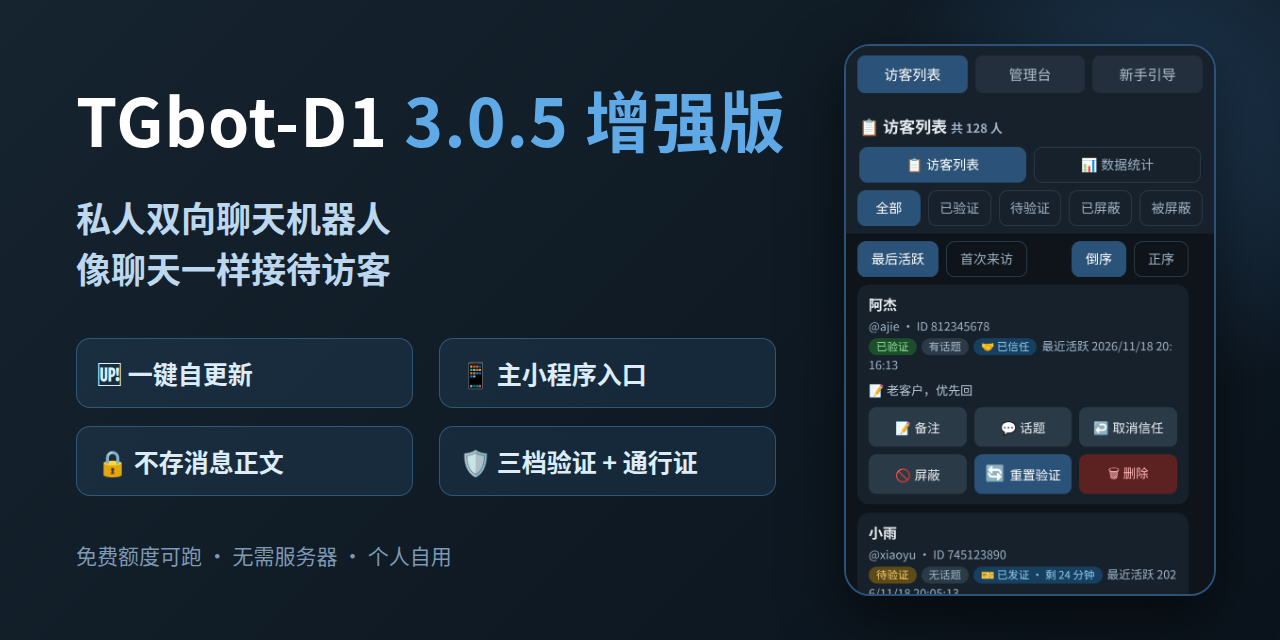
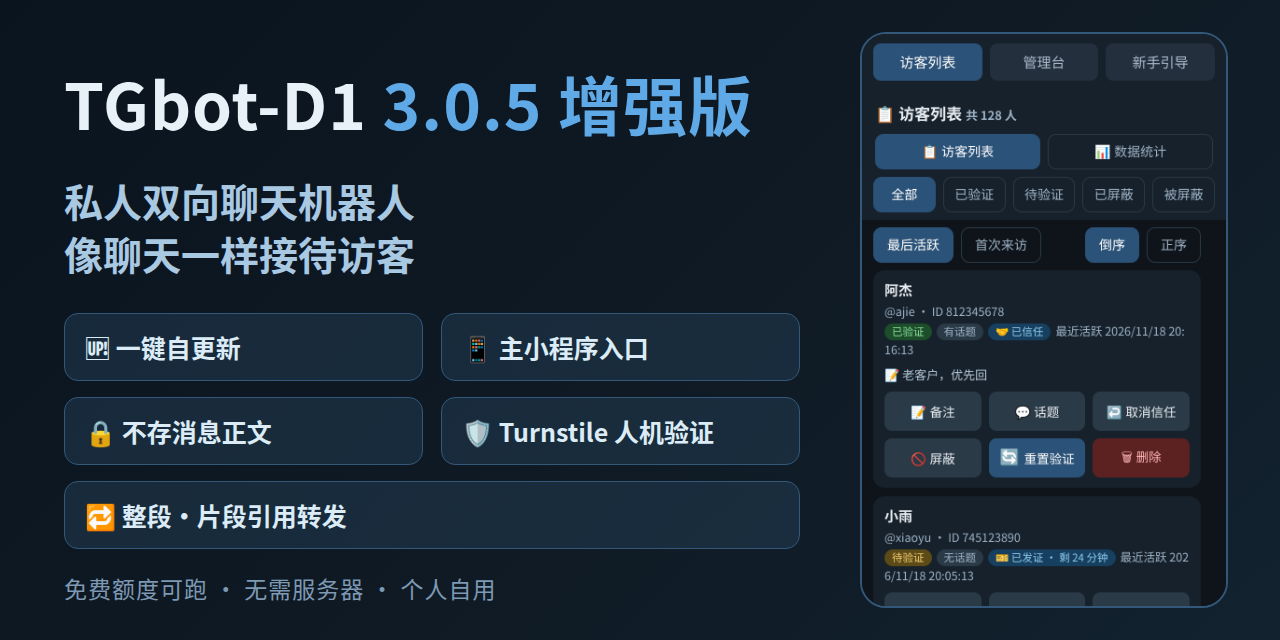
引流文案重点修订（镜像同步）：亮点块点名 Cloudflare Turnstile 人机验证、补整段/片段引用转发；社交预览图换 5 卖点版

diff --git a/.github/README.md b/.github/README.md
@@ -5,8 +5,8 @@
 - 🆙 **一键自更新**——菜单点一下自己升级到最新版，不用碰代码、不用开电脑；升级不成功自动退回原样，还能一键回滚。
 - 📱 **主小程序入口**——从聊天列表和机器人资料页直接打开，访客列表、管理台、新手引导三页合一。
 - 🔒 **不存消息正文**——数据库里不落访客的聊天内容，隐私更稳妥。
-- 🛡 **三档验证 + 一次性通行证**——人机验证、静态问答、顺序点击三选一；个别访客过不了验证，发张通行证点开即通过。
-- 🔁 **聊天般自然**——消息编辑、表情反应双向同步，删消息连对面一起删，跟真人聊天一个手感。
+- 🛡 **Cloudflare Turnstile 人机验证**——外加静态问答、顺序点击共三档可选；个别访客过不了验证，发张一次性通行证点开即通过。
+- 🔁 **聊天般自然**——整段、片段引用转发保留原话，消息编辑、表情反应双向同步，删消息连对面一起删，跟真人聊天一个手感。
 - 💸 **免费跑**——跑在 Cloudflare 免费额度上，不用买服务器。
 
 本文件是 Fork（realadmin/TGbot-D1）对原作者 [moistrr/TGbot-D1](https://github.com/moistrr/TGbot-D1) 的增强说明。
